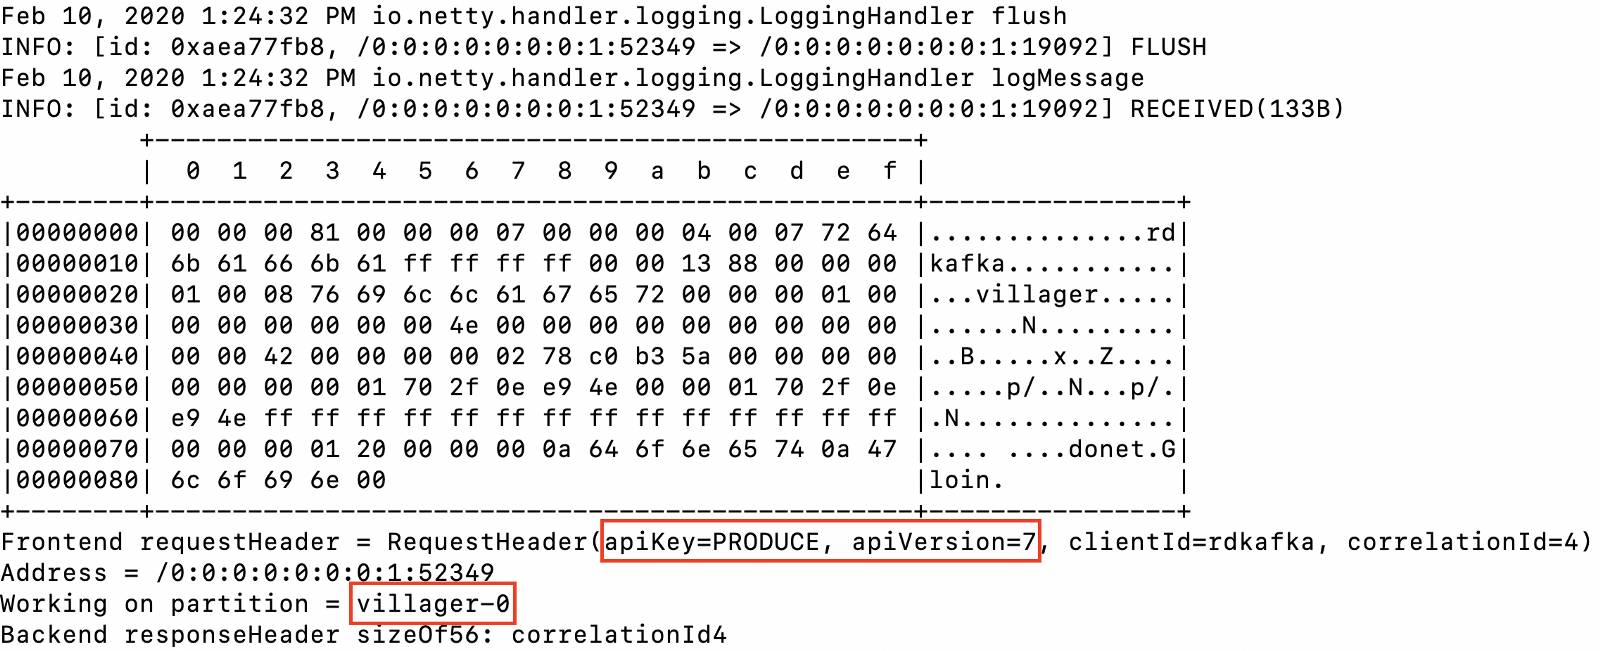
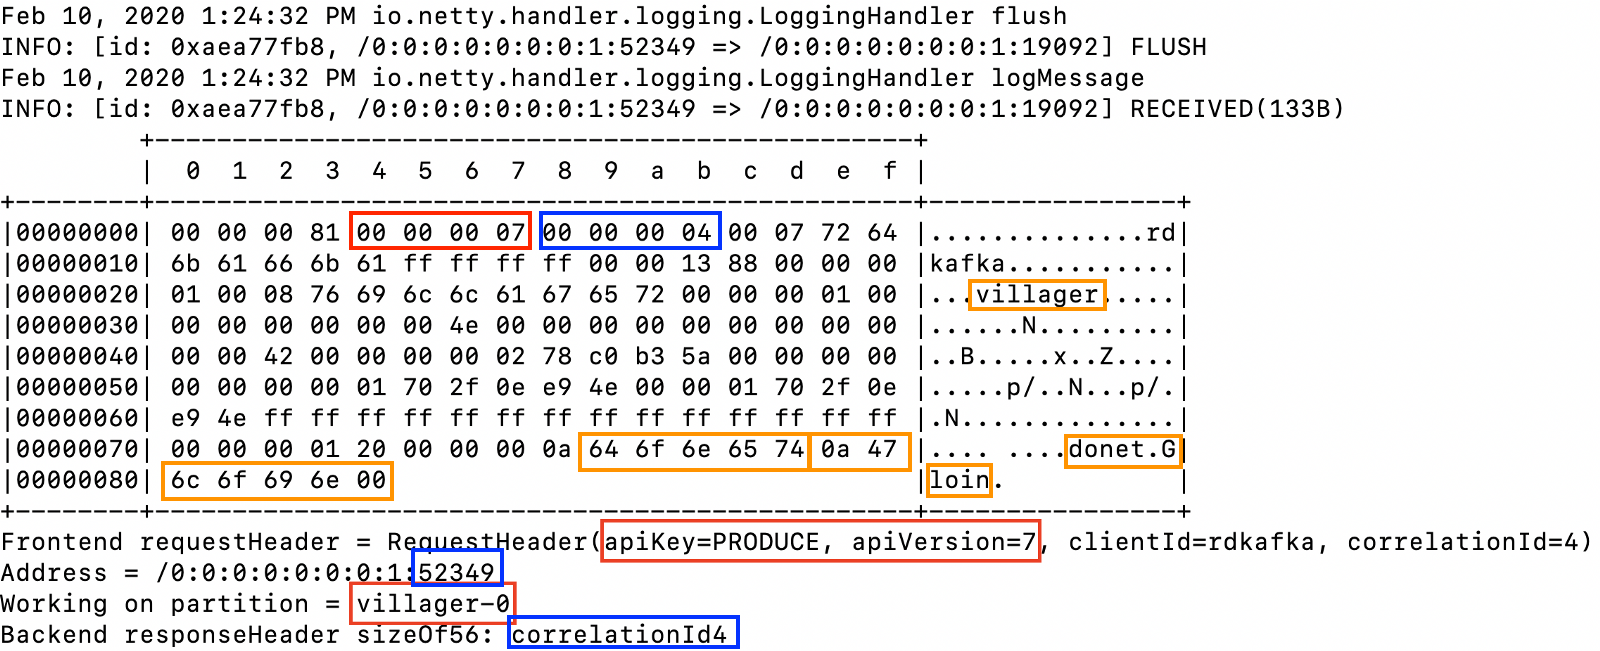
Adding more documentation

diff --git a/Readme.md b/Readme.md
@@ -10,6 +10,8 @@ Two kafka producers (golang and dotnet) are producing messages and a springboot 
 consuming them. The message content should be encrypted (not the key's) and this should be transparent to all Kafka clients. <br/>
 ![Alt Text](./kafka.gif)
 
+Note : The diagram shows a proxy per Kafka client, in this example all these proxies collapse to one as we reuse it for all clients.  
+
 __Quickstart__
 
 _Note : adjust JAVA_HOME's accordingly to your local deployment's_ 
@@ -54,9 +56,12 @@ _Note : In this example if you start the producers to far ahead of the consumer 
 __TODO/Ideas__
 * Fix two issues noted in quickstart
 * Allow more flexibility, give the option of just a transparent proxy (i.e. only logging no encryption)
-* Wrap it all in a kubernetes sidecar proxy
+* Create the yaml to deploy it to Kubernetes, where each Kafka client has it's own sidecar proxy
 
 __Results__
+
+Below we have both the Dotnet and Go logs. Tailing them we see the message values printed in plaintext.
+
 
 ``` tail -f donet-producer.log go-producer.log ```
 
@@ -66,9 +71,18 @@ __Results__
 
 ![Consumer](./consumer-logs.png)
 
+The Kafka broker is running on a docker container. Using the docker execcommand we can log directly into a bash terminal. From here (using the kafka console consumer)  messages can be consumed without going through the Kafka proxy. Therefore there is no modification of the Kafka protocol in transient and we can clearly see the message values are encrypted.
 
 ```docker exec -it broker_kafka_1 bash /opt/kafka_2.12-2.3.0/bin/kafka-console-consumer.sh --bootstrap-server localhost:9092 --topic villager --group broker-consumer --property print.key=true --property key.spearator="-" ```
+
 ![Kafka Logs](./kafka-logs.png)
+
+Finally taking a glimpse into the the proxy logs we can see Kafka requests and responses flowing by.  In the screenshot below we see a Produce request in transit.
+
+- A Kafka request with an API key of 0, i.e. a Produce request
+- The version of the Produce request is 7
+- The client is listening on the ephemeral port 52349 and this is the 4th request sent by the client, i.e. the correlation ID is 4
+- The destination topic is villager with a key donet* and value of Gloin 
 
 
 ```tail -f Kafka-proxy.out```
